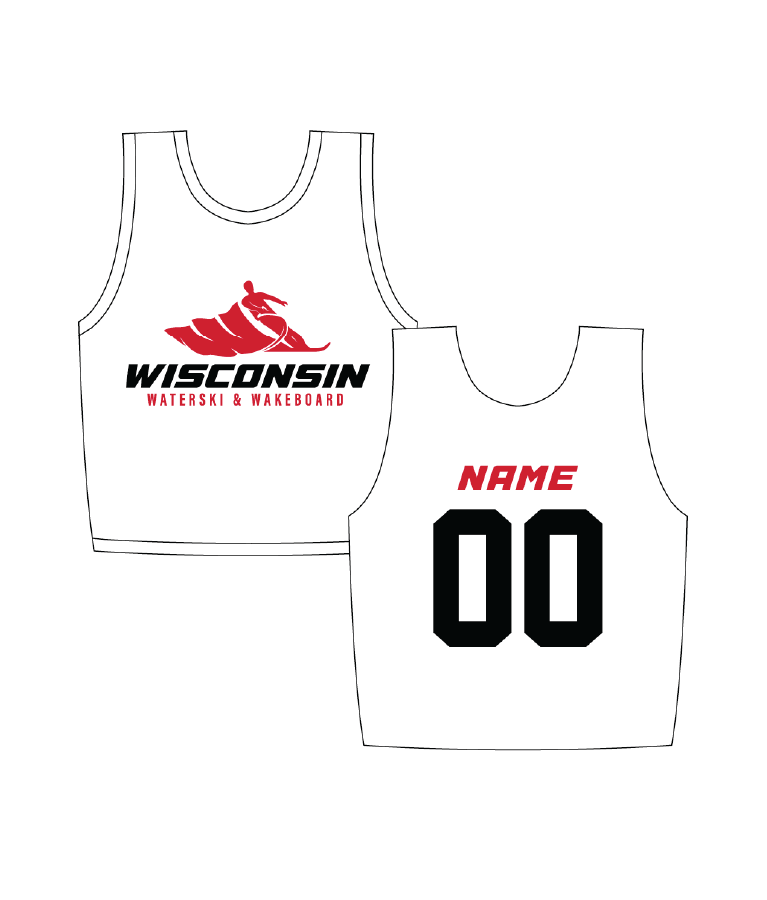
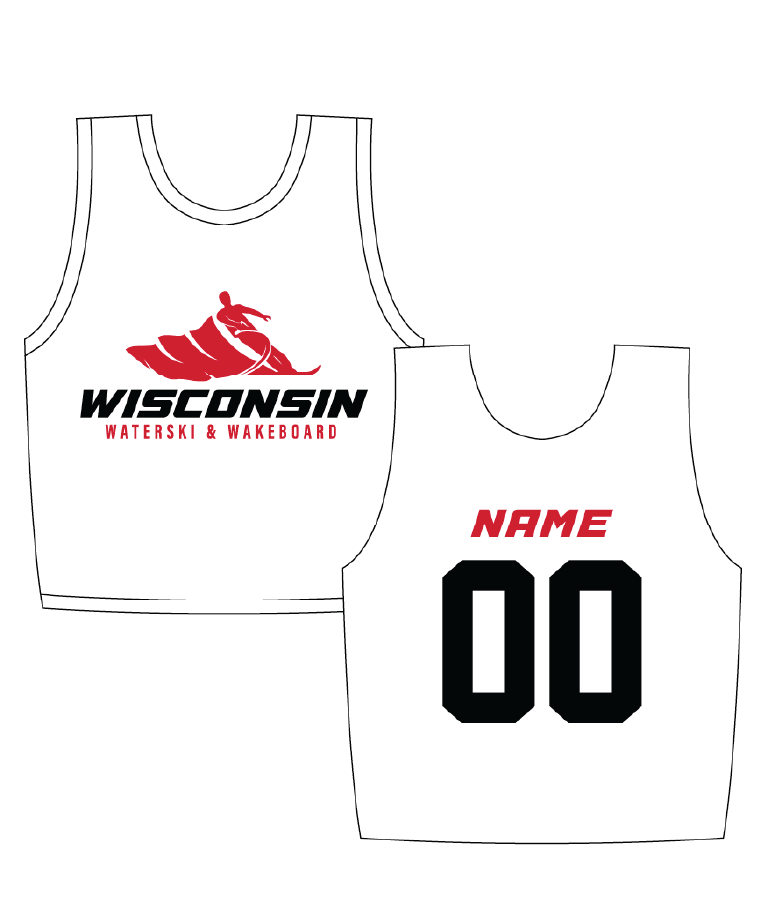
Open Wisco Shop
Added bibs to team page for Spring 2024 order.

diff --git a/teams/wisconsin-waterski/catalog.html b/teams/wisconsin-waterski/catalog.html
@@ -49,7 +49,7 @@
                         </a>
                     </div>
                    
-                    <div class="col-auto menu-order px-lg-0">
+                    <div class="col-auto col-lg-8 menu-order px-lg-0">
                     <a class="mobile-checkout"><button class="snipcart-checkout btn btn-fancy cart-mobile"><i class="fa fa-shopping-cart" style="margin-right: 5px;"></i><strong> </strong>(<span class="snipcart-items-count"></span>)</button></a>
                                            
                         <div class="collapse navbar-collapse justify-content-center" id="navbarNav">
@@ -60,7 +60,13 @@
                                 <li class="nav-item"><a href="#contact" class="inner-link nav-link">Contact Us</a></li>                
                             </ul>
                         </div>
-                    </div>  
+                    </div>
+                        <li class="navbarNav col-auto text-end pe-0 font-size-0">
+                            <div class="header-button d-md-inline-block hidden-mobile mid-nav "> 
+                                <a class="popup-with-zoom-anim"><button class="btn btn-small btn-fancy btn-white mb-0 snipcart-checkout"><i class="fa fa-shopping-cart" style="margin-right: 5px;"></i><strong>CHECKOUT </strong>(<span class="snipcart-total-price"></span>)</button></a>
+
+                            </div>
+                        </li>
                 </div>
             </nav>
             <!-- end navigation -->
@@ -81,14 +87,111 @@
          
                         <span class="alt-font font-weight-500 text-fw-red text-uppercase d-block margin-10px-bottom letter-spacing-1px">A CURATED CATALOG FOR</span>
                         <h3 class="script-font text-black mb-0">The Wisconsin Waterski &amp; Wakeboard Team</h3>
-                            <p><strong><em>This catalog was completed on February 6, 2023 at 11:59 p.m. EST.</em></strong></p>
-                                <p>If you missed out on the order, contact us at <a href="mailto:business@firewaterapparel.co" style="color:#b3242a; font-weight: 600">business@firewaterapparel.co</a> within 24 hours of the order being closed to place a last-chance order.</p>
+                            
+                        <p>Note: the current order period is <strong>April 1 to April 5 at 11:59 p.m.</strong> All orders placed within this timeframe will be created at the end of the order period and shipped to <strong>the Wisconsin Wake House</strong>.</p>                                                    
+                    </div>
+                </div>
+            </div>
+            
+            
+            <div class="container-fluid padding-90px-lr xs-padding-25px-lr">
+                <div class="row">
+
+                <!-- BEGIN ITEM_x_3 -->
+                    <div class="col-xl-4 col-lg-4 col-md-6 offset-lg-4 offset-xl-4 offset-md-3 lg-margin-100px-bottom xs-margin-50px-bottom"> 
+                    <div class="fw-catalog-item">
+                    <!-- CHANGE BUTTON DESTINATION TO ITEM MODAL -->
+                        <a class="popup-with-zoom-anim" href="#modal-item_x_3"><figure class="m-0">
+                            <img class="w-100" src="/teams/wisconsin-waterski/catalog/Wisconsin-Catalog_Spring_2024-Bibs_Mockup.svg" alt="" />
+                            
+                                                
+                            <figcaption>
+                                <div class="interactive-banners-hover-action align-items-center d-flex">
+                                    <div class="padding-4-half-rem-lr padding-5-rem-tb last-paragraph-no-margin lg-padding-4-rem-all xl-padding-3-rem-all xs-padding-5-rem-all">
+                                        <button class="btn btn-small btn-fancy btn-black btn-catalog submit">VIEW ITEM</button>
+                                    </div>
+                                </div>
+                            </figcaption>
+                        </figure>
+                    </a>
+                        </div>
+                        <div class="text-center margin-25px-top">
+                            <span class="text-black alt-font font-weight-700 sm-no-text-shadow text-uppercase title-extra-small">Masterline Team Bibs</span>
+                        <span class="alt-font font-weight-500 text-fw-red text-uppercase d-block margin-50px-bottom letter-spacing-1px">$39</span>
+                        </div>
+                    </div>
+                    <!-- END ITEM -->
+                    
+                        <!-- ITEM MODAL_x_3 -->
+                        <div id="modal-item_x_3" class="mobile-form zoom-anim-dialog col-12 col-xl-8 col-md-10 col-sm-12 mx-auto bg-white text-left padding-4-half-rem-all mfp-hide border-radius-6px sm-padding-2-half-rem-lr">
+                                 
+                    <div class="container-fluid padding-40px-lr xs-padding-25px-lr">
+                    <div class="row">
+                        <div class="col-xl-6 col-md-10 offset-xl-0 offset-md-1 fw-catalog-item lg-margin-10px-bottom xs-margin-15px-bottom"> 
+                            <img class="w-100" src="/teams/wisconsin-waterski/catalog/Wisconsin-Catalog_Spring_2024-Bibs_Mockup.svg" alt="" />
+                            
+                        </div>
+                        <div class="col-xl-6 col-md-10 offset-xl-0 offset-md-1 col-sm-12 lg-margin-10px-bottom xs-margin-10px-bottom" style="padding-top: 2%"> 
+                            
+                    <!-- CHANGE ITEM INFORMATION HERE -->
+                            <span class="alt-font title-small font-weight-600 text-black margin-25px-bottom">
+                                <br/>Masterline Team Bibs</span>
+                            <br/>
+<span class="alt-font font-weight-500 text-fw-red text-uppercase d-block margin-20px-bottom letter-spacing-1px">$39</span>                              <p class="item-description">SIZING/FIT</p>                             <p>Unisex Adult/Youth</p>                                                          <p class="item-description">PRINT METHOD(S)</p>                             <p>All-Over Print (Dye-Sublimation)</p>
+                            <div class="col-xl-6 col-sm-12 col-xs-12">
+                              
+                                <!-- CHANGE SIZE NUMBER BELOW -->
+                                <label>Select a size:</label>
+                                <select id="size_x_3">
+                                        <option value="Adult">Adult</option>
+                                        <option value="Youth">Youth</option>
+                                </select>
+                                
+                                <!-- CHANGE COLOR NUMBER BELOW -->
+                                <label>Name and Number:</label>
+                                <input id="color_x_3">
+                                
+                                <!-- CHANGE ITEM NUMBER AND INFORMATION BELOW -->
+                                <button id="item_x_3"
+                                    class="snipcart-add-item btn btn-fancy btn-black btn-atc popup-modal-dismiss"
+                                    data-item-id="wisconsin-waterski_x_3"
+                                    data-item-price="39.00"
+                                    data-item-url="https://firewaterapparel.co/teams/wisconsin-waterski/catalog"
+                                    data-item-description="Unisex sizing. Dye-sublimated jersey with custom names and numbers."
+                                    data-item-image="/teams/wisconsin-waterski/catalog/mockup-3.png"
+                                    data-item-name="Wisconsin Waterski Masterline Team Bibs"
+                                    data-item-custom1-name="Size"
+                                    data-item-custom1-options="Adult|Youth"
+                                    data-item-custom2-name="Name and Number"
+                                    data-item-custom2-required="true">   
+                                <i class="fa fa-shopping-cart" style="margin-right: 5px"> </i>Add to cart
+                                </button>
+                                
+                                <!-- CHANGE VARIABLE NUMBERS BELOW -->
+                                <script>
+                                    const button_x_3 = document.querySelector('#item_x_3')
+                                    const size_x_3 = document.querySelector('#size_x_3')
+                                    size_x_3.addEventListener('change', () => {
+                                    // Sets the default frame color when adding the item
+                                        button_x_3.setAttribute("data-item-custom1-value", size_x_3.value)
+                                    })
+                                    const color_x_3 = document.querySelector('#color_x_3')
+                                    color_x_3.addEventListener('change', () => {
+                                    // Sets the default frame color when adding the item
+                                        button_x_3.setAttribute("data-item-custom2-value", color_x_3.value)
+                                    })
+                                </script>
+                            </div>                            
+                        </div>
+                    </div>
+                </div>
+            </div>
+                        <!-- END ITEM MODAL -->
                             
                         
 
                     </div>
                 </div>
-            </div>
 
 </section>
         <!-- end section -->        
